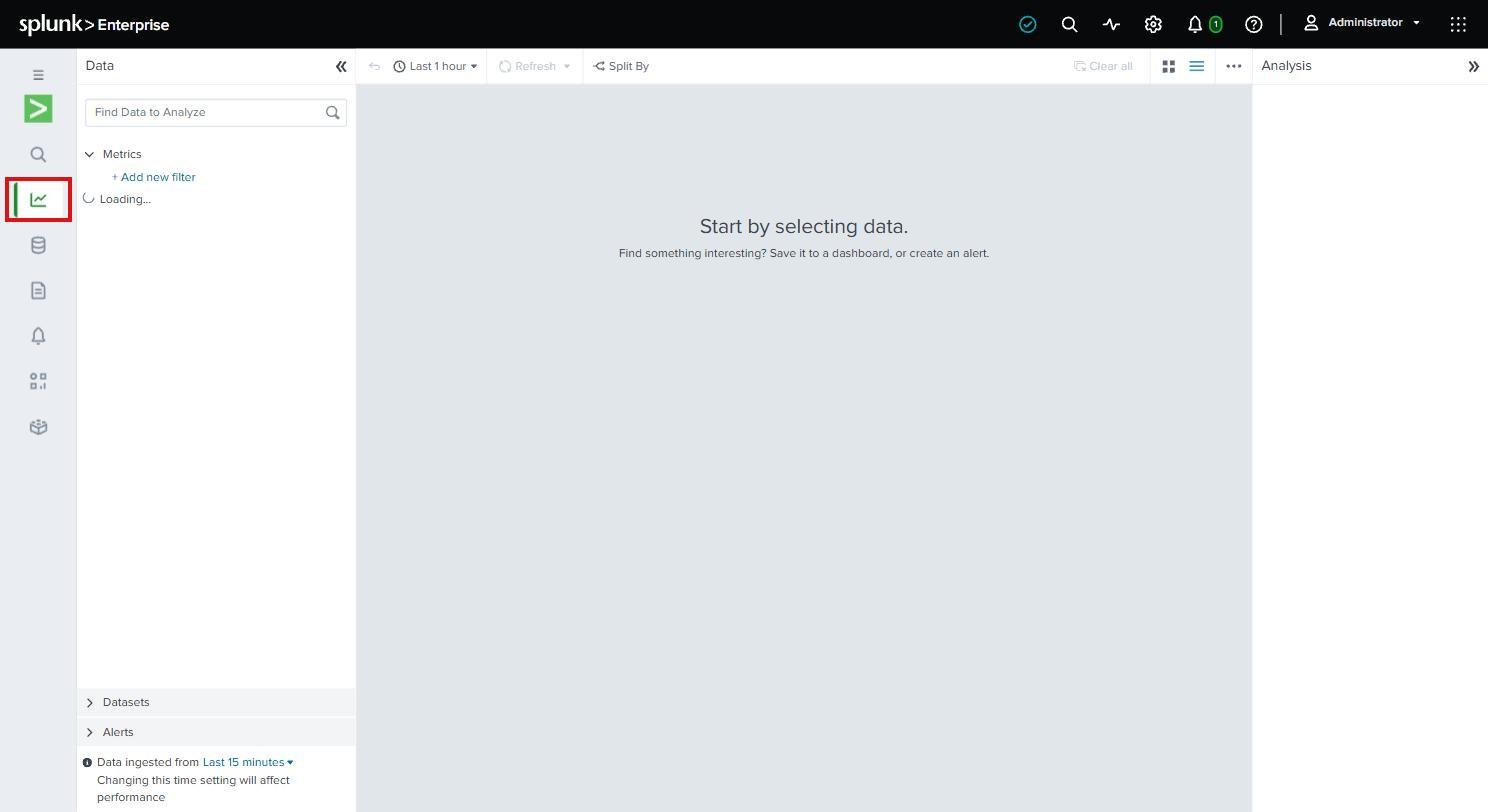
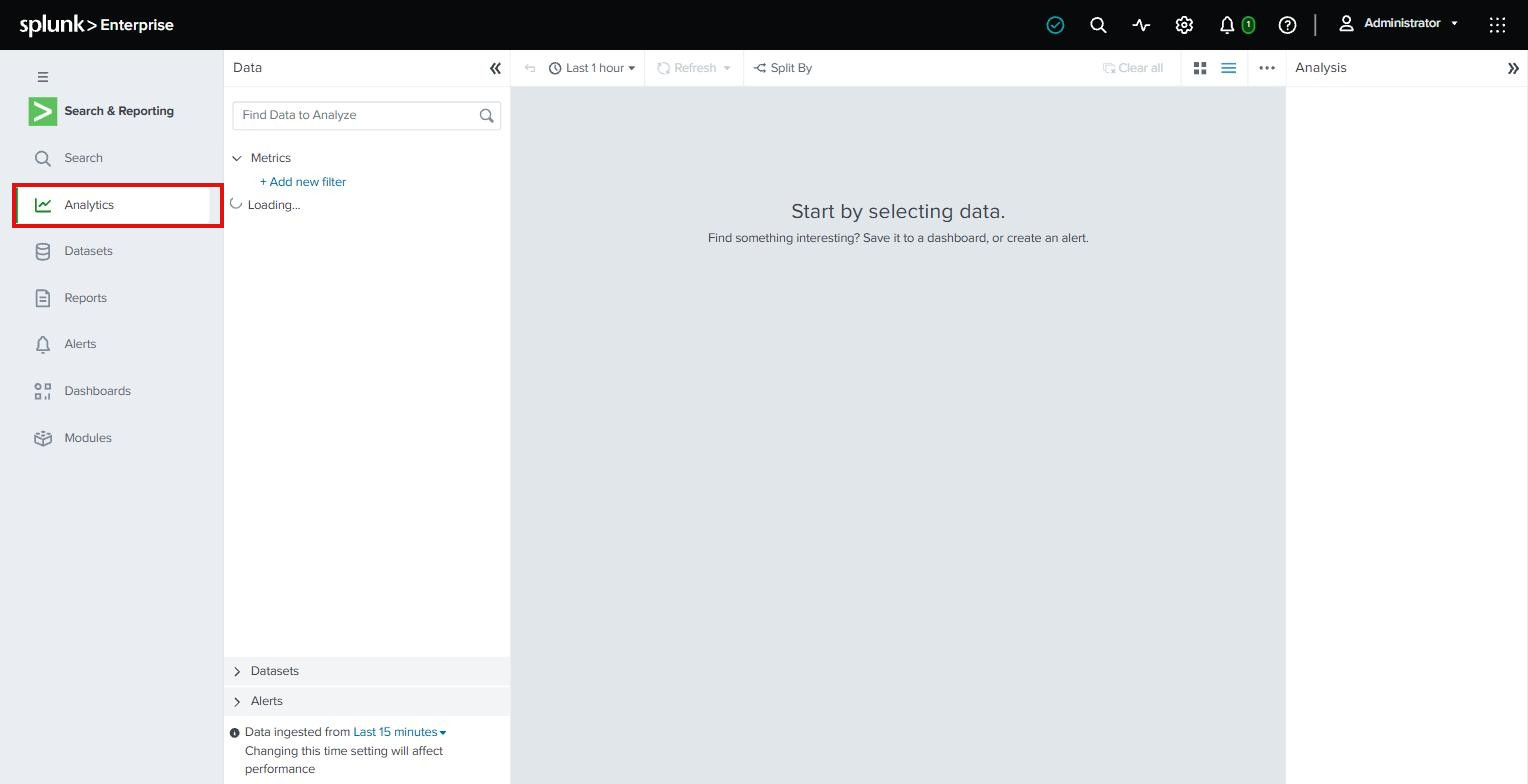
Splunk-Menueuebersicht: Settings-Menue raus, Screenshots mit ausgeklappter Sidebar, SPL2-Hinweis
Die sechs Settings-Untertabellen (Featured, Knowledge, System, Data,
Distributed environment, Users and authentication) sind entfernt - sie
beschreiben die Administration der Splunk-Instanz selbst, nicht die Bedienung
durch einen Kubernetes-Nutzer. Fazit entsprechend angepasst. Screenshots der
Search & Reporting Seitenleiste neu mit ausgeklappten Labels statt nur Icons.
Kurze Erklaerung ergaenzt, was SPL2 ist.

Claude-Session: https://claude.ai/code/session_0144iz7PMdvqfmk1Hf2T5peM

diff --git a/kubernetes-splunk/menues-und-ihre-funktion.md b/kubernetes-splunk/menues-und-ihre-funktion.md
@@ -32,6 +32,12 @@ Splunk ist, Standalone-Rolle, externe vs. In-Cluster-Anbindung) stehen in
 | Dashboards | Visualisierungen/Panels aus gespeicherten Suchen | Optional - "Visualize your data" wird auf der Startseite beworben, ist aber keine eigene Uebung; waere naheliegende Erweiterung fuer ein Kubernetes-Log-Dashboard |
 | Modules | SPL2-Suchmodule (mehrere Suchen kombinieren, neueres API-Konzept) | Nein - SPL2 ist ein Splunk-internes Nachfolgekonzept zu SPL, kein Kubernetes-Bezug |
 
+**Was ist SPL2:** die von Splunk geplante Nachfolgesprache zu SPL - naeher an SQL/Pipe-Syntax
+aus einem Guss, gedacht um Suchbausteine als wiederverwendbare "Module" zu buendeln und
+gleichermassen in Splunk Cloud, Splunk Enterprise und Data-Pipeline-Produkten (z.B. Edge
+Processor) einsetzbar zu sein. Fuer dieses Training ohne Bedeutung: die Uebungen nutzen
+durchgehend klassisches SPL, siehe [Uebung 4](uebungen/04-log-suche-crashloop-debugging.md).
+
 ### Screenshots: jeder Menuepunkt einzeln
 
 Jeder Punkt der linken Symbolleiste angeklickt, mit rotem Rahmen um das jeweilige Icon
@@ -88,82 +94,18 @@ dafuer noetige Zusatzkomponente.
 | Jobs | Laufende/abgeschlossene Suchjobs verwalten (abbrechen, Ergebnisse nachladen) | Nein direkt - nuetzlich falls eine Suche in Uebung 4 haengt, aber kein eigener Uebungsinhalt |
 | Triggered Alerts | Historie ausgeloester Alerts | Nein direkt - haengt am optionalen Alert aus Uebung 4, Schritt 5 |
 
-## Settings > Featured
-
-| Menuepunkt | Was er tut | Fuer K8s-Training gebraucht? |
-|---|---|---|
-| Add Data | GUI-Assistent zum Anbinden neuer Datenquellen (Dateien, Netzwerk-Ports, Apps) | Nein - unser Weg ist der Log-Forwarder/DaemonSet per Terraform/Helm ([Uebung 3](uebungen/03-forwarder-an-externe-splunk.md)), nicht der manuelle GUI-Wizard |
-| Monitoring Console | Ueberwacht Health/Performance der Splunk-Instanz(en) selbst (Indexer, Search Heads) | Nein - beobachtet Splunk, nicht den Kubernetes-Cluster; fuer eine einzelne Standalone-VM ohnehin wenig Mehrwert |
-| Federation | Suche ueber mehrere, verbundene Splunk-Instanzen hinweg | Nein - Enterprise-Feature fuer Multi-Instanz-Setups, hier gibt es nur eine Instanz |
-
-## Settings > Knowledge
-
-| Menuepunkt | Was er tut | Fuer K8s-Training gebraucht? |
-|---|---|---|
-| Catalog | Datenkatalog (CIM-Mapping, welche Sourcetypes/Felder es gibt) | Nein - Vorstufe zu Data Models, nicht im Scope |
-| Searches, reports, and alerts | Verwaltungsansicht aller gespeicherten Suchen/Alerts (GUI-Pendant zu Alerts/Reports oben) | Nein direkt - reine Verwaltungsansicht, Inhalt deckt sich mit Alerts |
-| Data models | Strukturierte, hierarchische Sicht auf Rohdaten fuer Pivot/Datasets | Nein - Aufbauthema, kein Bestandteil der Uebung |
-| Event types | Klassifiziert wiederkehrende Suchmuster mit einem Namen | Nein - Komfortfeature fuer groessere/laengerfristige Splunk-Deployments |
-| Tags | Vergibt Schlagworte auf Feld-Wert-Kombinationen | Nein - gleiche Kategorie wie Event types |
-| Fields | Verwaltung von Feldextraktionen/-berechnungen (die Basis von `k8s.container.name` etc.) | Teilweise - die Felder aus dem OTel-Collector nutzen wir in Uebung 4 direkt in der Suche, die GUI-Verwaltung dahinter ist aber kein Uebungsinhalt |
-| Lookups | Externe Tabellen zur Anreicherung von Suchergebnissen | Nein - kein Anwendungsfall in dieser Uebung |
-| User interface | Eigene Navigationsmenues/Views pro App bauen | Nein - reines Splunk-App-Customizing |
-| Alert actions | Verfuegbare Alert-Aktionstypen konfigurieren (E-Mail-Server, Skripte, Webhooks) | Nein direkt - waere Voraussetzung, falls der optionale Alert aus Uebung 4 wirklich eine E-Mail verschicken soll |
-| Advanced search | Verwaltung von Suchmakros und Sperrlisten fuer Suchbefehle | Nein - Admin-Feintuning, nicht Teil des Trainings |
-| Modules | Verwaltung von SPL2-Modulen (Pendant zu Modules oben) | Nein - siehe Modules oben |
-| All configurations | Rohansicht aller `.conf`-Stanzas ueber alle Apps | Nein - Experten-/Debug-Werkzeug fuer Splunk-Administratoren, kein Trainingsinhalt |
-
-## Settings > System
-
-| Menuepunkt | Was er tut | Fuer K8s-Training gebraucht? |
-|---|---|---|
-| Server settings | Splunk-eigene Serverkonfiguration (Ports, E-Mail, Ausgabefelder) | Nein - betrifft die Splunk-VM, nicht den Kubernetes-Cluster |
-| Server controls | Splunk-Dienst neu starten | Nein - kein Uebungsschritt erfordert einen Splunk-Neustart |
-| Health report manager | Interne Selbstdiagnose-Regeln von Splunk | Nein - Splunk-Administrationsthema |
-| RapidDiag | Sammelt Diagnosedaten fuer den Splunk-Support | Nein - Support-Tooling, nicht didaktisch relevant |
-| Instrumentation | Sendet anonymisierte Nutzungsdaten an Splunk Inc. | Nein - Splunk-Telemetrie, kein Kubernetes-Bezug |
-| Licensing | Zeigt aktuelle Lizenz (hier: Free License nach Trial-Ablauf, 500 MB/Tag) | Teilweise - relevant nur als Hintergrundwissen zur 500-MB-Tageslimite aus [README](README.md#kosten), kein eigener Klick-Schritt in der Uebung |
-| Workload management | Priorisiert/limitiert Ressourcen fuer Suchen/Ingestion auf der Splunk-Instanz | Nein - Kapazitaetsplanung fuer Produktions-Splunk, nicht fuer eine Testinstanz |
-| Mobile settings | Konfiguration der Splunk-Secure-Gateway-Kopplung | Nein - siehe Splunk Secure Gateway oben |
-
-## Settings > Data
-
-| Menuepunkt | Was er tut | Fuer K8s-Training gebraucht? |
-|---|---|---|
-| Data inputs | Uebersicht/Verwaltung aller Eingangskanaele, inkl. HEC-Token | Ja (Hintergrund) - der HEC-Token, den [Uebung 2](uebungen/02-externe-splunk-vm.md) per Terraform setzt, landet genau hier; die Uebung nutzt aber die IaC-Variable statt den GUI-Weg |
-| Forwarding and receiving | Konfiguration der Empfangsseite fuer Forwarder (HEC, Forwarder-Ports) | Ja - genau das Prinzip, das den Cluster (per DaemonSet/OTel-Collector) mit der externen Splunk-Instanz verbindet |
-| Indexes | Verwaltung der Indizes, in die Daten geschrieben werden (`index=main` aus Uebung 4) | Ja - `index=main` ist die Suchbasis in [Uebung 4](uebungen/04-log-suche-crashloop-debugging.md) |
-| Report acceleration summaries | Vorberechnete Zusammenfassungen fuer schnellere Reports | Nein - Performance-Feature fuer grosse, wiederkehrende Reports |
-| Source types | Verwaltung der Sourcetypes, z.B. `kube:events`, `kube:container:<name>` | Ja - genau diese Sourcetypes werden in [Uebung 4](uebungen/04-log-suche-crashloop-debugging.md) zur Unterscheidung von K8s-Events und Container-Logs genutzt |
-| Ingest actions | Filtert/maskiert/routet Daten schon beim Einlesen (vor dem Indexieren) | Nein - fortgeschrittenes Feature (z.B. Secrets aus Logs maskieren), kein Teil dieser Uebung |
-
-## Settings > Distributed environment
-
-| Menuepunkt | Was er tut | Fuer K8s-Training gebraucht? |
-|---|---|---|
-| Agent management | Zentrale Verwaltung von Splunk-eigenen Forwarder-/Agent-Flotten | Nein - unser Log-Forwarder (Splunk OTel Collector als DaemonSet) wird per Helm/Terraform ausgerollt, nicht ueber dieses Splunk-eigene Fleet-Management |
-| Indexer clustering | Baut ein Indexer-Cluster fuer Hochverfuegbarkeit/Replikation auf | Nein - die Uebung nutzt bewusst eine Standalone-Instanz (siehe [UEBERSICHT.md](UEBERSICHT.md)), kein HA-Thema |
-| Distributed search | Verteilt Suchen ueber mehrere Search Heads/Indexer | Nein - gleiche Begruendung, Standalone deckt alle Rollen selbst ab |
-
-## Settings > Users and authentication
-
-| Menuepunkt | Was er tut | Fuer K8s-Training gebraucht? |
-|---|---|---|
-| Roles | Rollenbasierte Berechtigungen innerhalb von Splunk (welche Indizes/Capabilities) | Optional als Cross-Reference - konzeptionell die gleiche Idee wie Kubernetes-RBAC ([kubernetes/rbac/](../kubernetes/rbac/00-rbac-and-least-privileges.md)), aber kein eigener Uebungsschritt hier |
-| Users | Verwaltung von Splunk-Benutzerkonten | Nein - die Uebung laeuft komplett mit dem einen `admin`-Konto |
-| Field filters | Blendet einzelne Feldwerte rollenspezifisch aus Suchergebnissen aus | Nein - Feinsteuerung fuer Multi-Tenant-Betrieb, nicht im Scope |
-| Tokens | Verwaltung von Auth-Tokens fuer die REST-API (nicht zu verwechseln mit dem HEC-Token) | Nein - die Uebung nutzt keine Splunk-REST-API-Aufrufe |
-| Password management | Passwortrichtlinien fuer Splunk-Benutzerkonten | Nein - ein einzelnes Trainings-Passwort reicht |
-| Authentication methods | Externe Auth-Anbindung (LDAP, SAML/SSO) | Nein - lokale Authentifizierung genuegt fuer die Trainingsinstanz |
-
 ## Fazit
 
-Fuer dieses Training zaehlen im Kern nur wenige Menuepunkte wirklich: **Search**, **Alerts**,
-**Forwarding and receiving**, **Indexes** und **Source types** - das deckt exakt den Weg
-"Kubernetes-Log entsteht -> Forwarder schickt per HEC -> landet im Index -> wird per SPL
-gefunden -> loest optional einen Alert aus" ab, der [Uebung 3](uebungen/03-forwarder-an-externe-splunk.md)
-und [Uebung 4](uebungen/04-log-suche-crashloop-debugging.md) traegt. Der weit ueberwiegende
-Teil der Menuepunkte (Clustering, Federation, Workload/Lizenz-Verwaltung, Mobile, Audit,
-Data Management, Observability Cloud) betrifft den Betrieb von Splunk selbst als verteiltes
-Produkt - nicht die Anbindung eines einzelnen Kubernetes-Clusters, und bleibt deshalb
-bewusst ausserhalb des Trainings-Scopes.
+Fuer dieses Training zaehlen im Kern nur wenige Menuepunkte wirklich: **Search** und
+**Alerts** aus der Search & Reporting App - das deckt den Weg "Log/Event trifft in Splunk
+ein -> wird per SPL gefunden -> loest optional einen Alert aus" ab, der
+[Uebung 4](uebungen/04-log-suche-crashloop-debugging.md) traegt. Analytics Workspace,
+Datasets, Reports und Modules sind Aufbau- bzw. Alternativkonzepte ohne eigenen
+Uebungsschritt, Dashboards eine naheliegende, aber optionale Erweiterung. Das
+Settings-Menue (Administration der Splunk-Instanz selbst: Server, Lizenz, Indizes,
+Forwarding, Clustering, Nutzer/Rollen) ist bewusst nicht Teil dieser Uebersicht - es
+betrifft den Betrieb von Splunk als Produkt, nicht die Bedienung durch einen
+Kubernetes-Nutzer, und wird stattdessen ueber die IaC-Schritte in
+[Uebung 2](uebungen/02-externe-splunk-vm.md) und
+[Uebung 3](uebungen/03-forwarder-an-externe-splunk.md) automatisiert statt per Klick
+konfiguriert.
